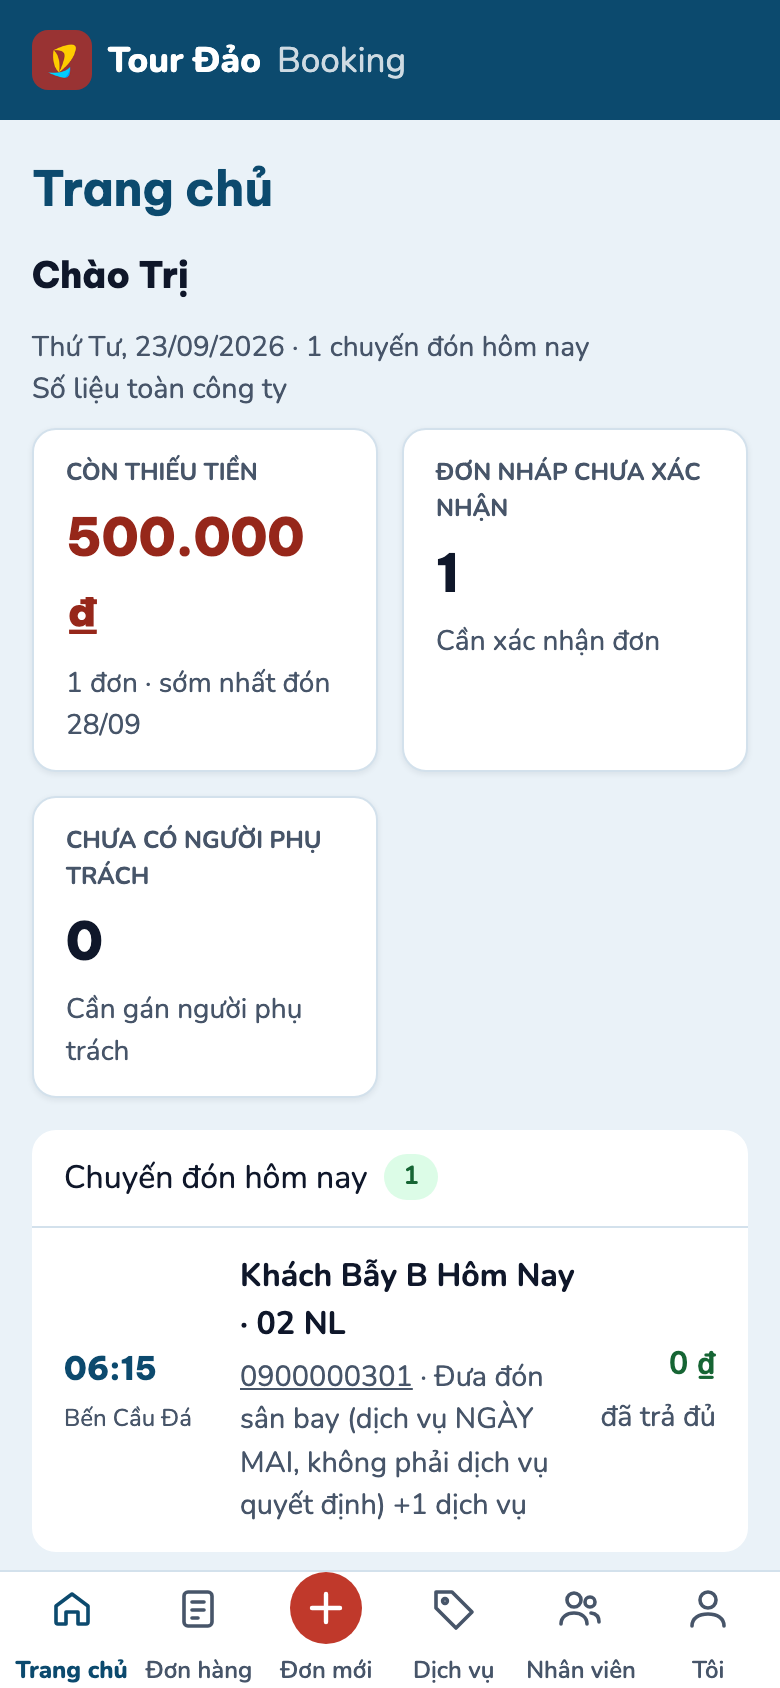
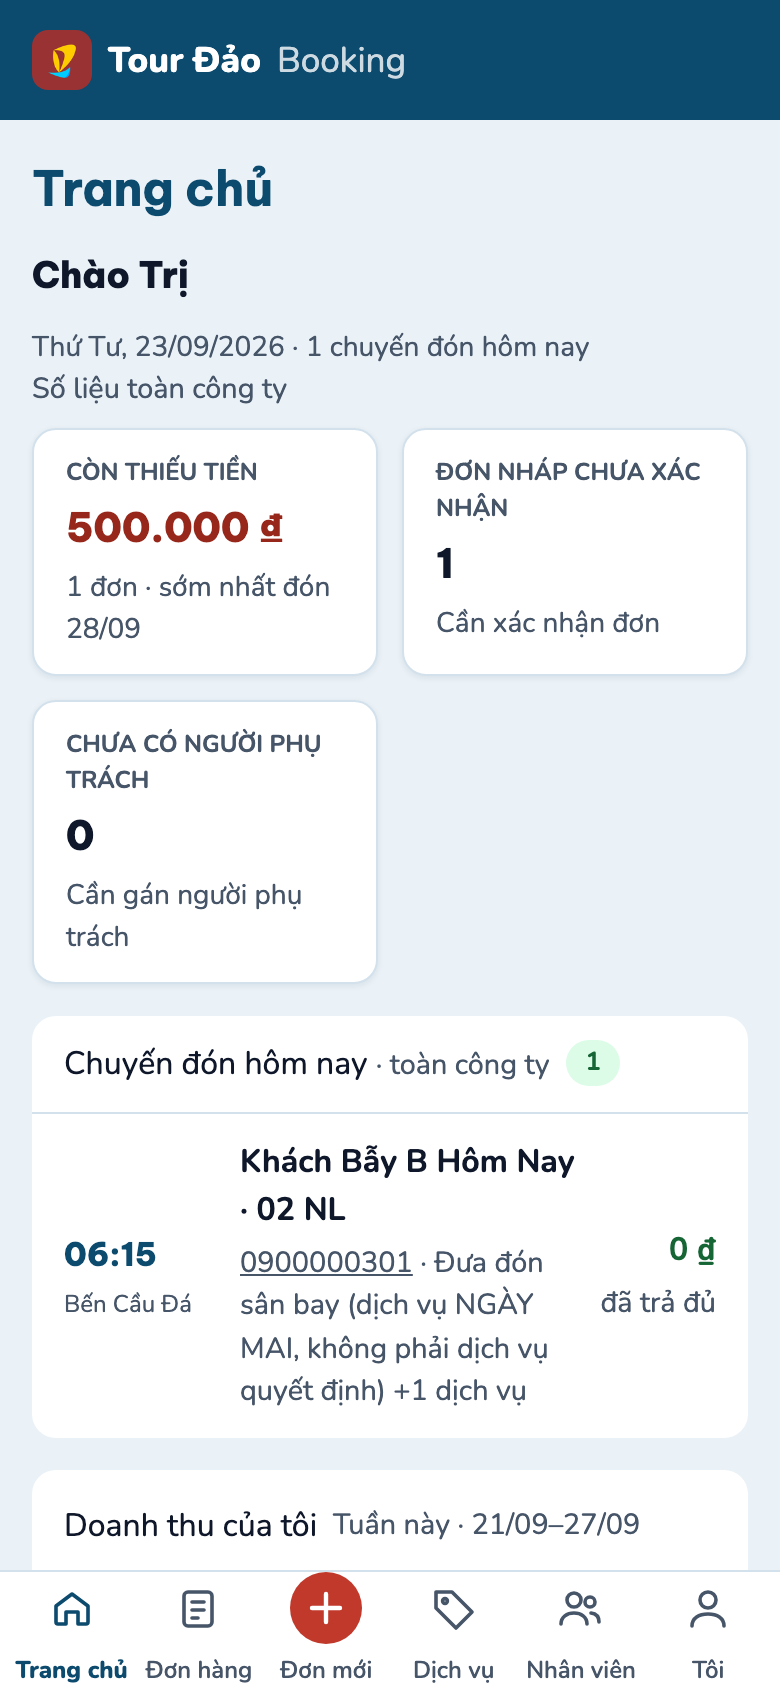
Sửa lượt kiểm gộp Trang chủ mới: I-1 khoá phá hoà dịch vụ quyết định, I-3 tràn ₫, I-6 nhãn phạm vi
I-1 (quan trọng nhất): SQLite xếp NULL trước trong ORDER BY mặc định — khi 2 dịch vụ cùng
là "ngày sớm nhất" của đơn mà một dịch vụ không nhập giờ đón (pickup_time IS NULL, trường
tuỳ chọn, rất hay gặp thật), dòng KHÔNG-CÓ-GIỜ thắng khoá phá hoà cũ (chỉ pickup_time), làm
trip mất cả giờ lẫn nơi đón, và dòng đó còn nổi lên đầu danh sách hiển thị. Thêm khoá phá
hoà (pickup_time IS NULL) trước pickup_time (cả subquery chọn dịch vụ quyết định lẫn ORDER
BY hiển thị), cộng khoá id cuối cùng cho tất định. TDD: 2 test đỏ trước (tái hiện đúng lỗi
người kiểm báo), xanh sau khi sửa SQL. insertService() trong dashboard.test.ts nay gán được
pickup_place (trước đây luôn NULL, assertion pickupPlace: null "pass hờ").

I-3: ô số liệu ("CÒN THIẾU TIỀN" …) làm ký hiệu ₫ rơi xuống dòng riêng ở lưới 2 cột khổ điện
thoại hẹp — thêm token --fs-stat-sm (20px) và override font-size trong @media (max-width:
639px). Thêm phép đo chiều cao thật của .dash-stat-value vào kịch bản Chrome (không xuống
dòng); ảnh bằng chứng ghi đè có chủ đích.

I-6: "Chuyến đón hôm nay" là số liệu TOÀN CÔNG TY (không lọc theo staff_id) nhưng đứng giữa
một khối "toàn công ty" và một khối "của tôi" — thêm nhãn phạm vi vào tiêu đề.

Minor: sửa selector CSS chết (.dash-today-list → #dash-today-list, home.html chỉ có id),
sửa hai chú thích lệch mã (dashboard.test.ts: "sort_order nhỏ nhất" → "dịch vụ quyết định";
web/shell.ts: "3 tab" → "4 tab" khi mất mạng).
[…]

diff --git a/src/modules/orders/dashboard.test.ts b/src/modules/orders/dashboard.test.ts
@@ -74,11 +74,12 @@ function insertDraftOrder(sqlite: DatabaseSync, o: { id: string; staffId: string
     .run(o.id, `TD-${o.id}`, o.staffId, m.subtotal, m.discount, m.total, m.depositAmount, m.remainingAmount, o.createdAt, o.createdAt);
 }
 
-/** Dịch vụ của một đơn còn nháp (chèn trước khi xác nhận). */
-function insertService(sqlite: DatabaseSync, s: { id: string; orderId: string; sortOrder?: number; departDate?: string | null; pickupTime?: string | null; name?: string }): void {
+/** Dịch vụ của một đơn còn nháp (chèn trước khi xác nhận). `pickupPlace` có tham số riêng — trước đây hàm này KHÔNG gán được cột này nên
+ * mọi ca test có `pickupPlace: null` "pass hờ" (không phân biệt được "đọc đúng dòng" với "luôn null", kiểm độc lập vòng gộp phát hiện). */
+function insertService(sqlite: DatabaseSync, s: { id: string; orderId: string; sortOrder?: number; departDate?: string | null; pickupTime?: string | null; pickupPlace?: string | null; name?: string }): void {
   sqlite
-    .prepare(`INSERT INTO order_service (id, order_id, sort_order, catalog_code, name, unit, pax_adult, depart_date, pickup_time) VALUES (?, ?, ?, NULL, ?, 'manual', 1, ?, ?)`)
-    .run(s.id, s.orderId, s.sortOrder ?? 0, s.name ?? "Dịch vụ", s.departDate ?? null, s.pickupTime ?? null);
+    .prepare(`INSERT INTO order_service (id, order_id, sort_order, catalog_code, name, unit, pax_adult, depart_date, pickup_time, pickup_place) VALUES (?, ?, ?, NULL, ?, 'manual', 1, ?, ?, ?)`)
+    .run(s.id, s.orderId, s.sortOrder ?? 0, s.name ?? "Dịch vụ", s.departDate ?? null, s.pickupTime ?? null, s.pickupPlace ?? null);
 }
 
 /** Chuyển đơn (đã có đủ dịch vụ hợp lệ — mọi dịch vụ có ngày + >=1 khách) sang xác nhận, đúng luồng trigger 0008/0017 cho phép. */
@@ -157,7 +158,7 @@ test("today: chỉ đơn confirmed có dịch vụ SỚM NHẤT (trong các dị
   );
   const o4 = data.today.find((o) => o.id === "o4")!;
   assert.deepEqual(o4.pax, { adult: 2, child: 0, senior: 0, infant: 0 }, "pax cộng dồn CẢ HAI dịch vụ của đơn");
-  assert.deepEqual(o4.trip, { departDate: TODAY, pickupTime: "06:00", pickupPlace: null }, "trip lấy theo dịch vụ sort_order nhỏ nhất (sv4a)");
+  assert.deepEqual(o4.trip, { departDate: TODAY, pickupTime: "06:00", pickupPlace: null }, "trip lấy theo dịch vụ QUYẾT ĐỊNH hôm nay (sv4a — ngày sớm nhất có ngày đón; ở đây trùng với sort_order nhỏ nhất, KHÔNG phải quy tắc chung, xem test 'trip lấy theo dịch vụ QUYẾT ĐỊNH…' bên dưới)");
 });
 
 test("today: đơn có điều chỉnh tiền → total/remainingAmount trong danh sách hôm nay là số HIỆN HÀNH, không phải cột gốc (bài học Đợt B)", async () => {
@@ -308,5 +309,54 @@ test("today: trip lấy theo dịch vụ QUYẾT ĐỊNH hôm nay (ngày sớm n
     o7.trip,
     { departDate: TODAY, pickupTime: "09:00", pickupPlace: null },
     "trip phải là của sv7b (dịch vụ quyết định hôm nay), KHÔNG phải sv7a (sort_order nhỏ nhất, ngày mai lúc 20:00)",
+  );
+});
+
+// ---- Kiểm độc lập (lượt gộp I-1): khoá phá hoà "dịch vụ nào quyết định hôm nay" khi 2 dịch vụ CÙNG ngày sớm nhất mà MỘT dịch vụ
+// không nhập giờ đón (pickup_time IS NULL — trường TUỲ CHỌN, trigger xác nhận đơn không đòi, rất hay gặp thật). SQLite xếp NULL TRƯỚC:
+// nếu khoá phá hoà chỉ là `pickup_time` thì dòng KHÔNG-CÓ-GIỜ thắng → trip mất cả giờ lẫn nơi đón. Đây là PROBE tái hiện đúng lỗi
+// người kiểm đã báo (trip = {departDate, pickupTime: null, pickupPlace: null} dù có dịch vụ 06:15 thật cùng ngày).
+test("today: 2 dịch vụ CÙNG ngày sớm nhất, một cái KHÔNG có giờ đón — dịch vụ CÓ giờ đón phải thắng khoá phá hoà (không phải NULL thắng)", async () => {
+  const sqlite = seed();
+  const db = fakeD1(sqlite);
+
+  insertDraftOrder(sqlite, { id: "o8", staffId: "s-a", createdAt: "2026-09-20T01:00:00.000Z" });
+  // sv8a: KHÔNG nhập giờ đón (tuỳ chọn, hợp lệ) — nếu là dòng thắng khoá phá hoà thì trip sẽ mất giờ/nơi đón.
+  insertService(sqlite, { id: "sv8a", orderId: "o8", sortOrder: 0, departDate: TODAY, pickupTime: null, pickupPlace: null });
+  // sv8b: CÓ giờ đón + nơi đón, CÙNG ngày hôm nay — phải là dịch vụ quyết định.
+  insertService(sqlite, { id: "sv8b", orderId: "o8", sortOrder: 1, departDate: TODAY, pickupTime: "06:15", pickupPlace: "Bến Cầu Đá" });
+  confirm(sqlite, "o8");
+
+  const data = await getDashboard(db, "s-a", TODAY, WEEK.from, WEEK.to);
+  assert.equal(data.today.length, 1, `o8 phải có trong today — ${JSON.stringify(data.today.map((o) => o.id))}`);
+  const o8 = data.today.find((o) => o.id === "o8")!;
+  assert.equal(o8.trip.pickupTime, "06:15", `trip.pickupTime PHẢI là 06:15 (sv8b, có giờ đón) — thấy ${JSON.stringify(o8.trip)}. Nếu null thì dịch vụ KHÔNG-CÓ-GIỜ đã thắng khoá phá hoà (bug I-1).`);
+  assert.equal(o8.trip.pickupPlace, "Bến Cầu Đá", `trip.pickupPlace PHẢI là "Bến Cầu Đá" (sv8b) — thấy ${JSON.stringify(o8.trip)}`);
+  assert.deepEqual(
+    data.today.map((o) => o.id),
+    ["o8"],
+  );
+});
+
+// Danh sách hiển thị (ORDER BY ngoài): dòng KHÔNG có giờ đón không được nổi lên đầu danh sách "Chuyến đón hôm nay" — phải xuống CUỐI.
+test("today: sắp xếp danh sách — đơn KHÔNG có giờ đón (trip.pickupTime null) phải đứng SAU đơn có giờ đón, không nổi lên đầu", async () => {
+  const sqlite = seed();
+  const db = fakeD1(sqlite);
+
+  // o9: có giờ đón 07:00.
+  insertDraftOrder(sqlite, { id: "o9", staffId: "s-a", createdAt: "2026-09-20T01:00:00.000Z" });
+  insertService(sqlite, { id: "sv9", orderId: "o9", departDate: TODAY, pickupTime: "07:00" });
+  confirm(sqlite, "o9");
+
+  // o10: KHÔNG có giờ đón (dịch vụ quyết định duy nhất của đơn không nhập giờ).
+  insertDraftOrder(sqlite, { id: "o10", staffId: "s-a", createdAt: "2026-09-20T01:00:00.000Z" });
+  insertService(sqlite, { id: "sv10", orderId: "o10", departDate: TODAY, pickupTime: null });
+  confirm(sqlite, "o10");
+
+  const data = await getDashboard(db, "s-a", TODAY, WEEK.from, WEEK.to);
+  assert.deepEqual(
+    data.today.map((o) => o.id),
+    ["o9", "o10"],
+    `o9 (có giờ đón) phải đứng TRƯỚC o10 (không có giờ đón) — dòng "—" không được nổi lên đầu danh sách. Thấy thứ tự ${JSON.stringify(data.today.map((o) => o.id))}`,
   );
 });

diff --git a/public/app.css b/public/app.css
@@ -86,6 +86,7 @@
   --h-turnstile: 65px;      /* chiều cao cố định của widget Cloudflare Turnstile (cỡ "flexible"/"normal"): khung giữ chỗ để widget dựng xong không đẩy nút Đăng nhập */
   --w-confirm: 640px;       /* bề rộng hộp thoại "Xác nhận đơn để gửi khách" ở màn hình rộng: ảnh xem trước (khổ 720) chỉ thu nhỏ nhẹ nên chữ còn đọc được */
   --fs-stat: 26px;          /* Trang chủ mới: cỡ chữ số liệu lớn (ô số liệu, doanh thu) */
+  --fs-stat-sm: 20px;       /* Trang chủ mới (kiểm gộp I-3): cỡ chữ số liệu ở khổ điện thoại hẹp (lưới 2 cột ≤639px) — 26px làm "₫" rơi xuống dòng riêng với số tiền lớn */
   --w-time-col: 76px;       /* Trang chủ mới: bề rộng cụm giờ đón + nơi đón (cùng dịch vụ quyết định) trong danh sách "Chuyến đón hôm nay" */
 }
 * { box-sizing: border-box; }
@@ -551,10 +552,11 @@ body.maint-open { overflow: hidden; }
 }
 @media (max-width: 639px) {
   .dash-stats { grid-template-columns: repeat(2, minmax(0, 1fr)); }
+  .dash-stat-value { font-size: var(--fs-stat-sm); } /* kiểm gộp I-3: lưới 2 cột ở khổ hẹp không đủ chỗ cho --fs-stat (26px) — "₫" rơi xuống dòng riêng với số tiền lớn */
 }
 .dash-today { padding: 0; } /* .card cho padding mặc định; đầu mục + từng dòng tự chia lề (khuôn .list-card) */
 .dash-today-head { display: flex; align-items: center; gap: var(--s2); padding: var(--s3) var(--s4); border-bottom: 1px solid var(--c-border); }
-.dash-today-list { display: flex; flex-direction: column; }
+#dash-today-list { display: flex; flex-direction: column; } /* kiểm gộp (minor): public/home.html không có class "dash-today-list" trên phần tử này (chỉ id) — selector cũ .dash-today-list chết */
 .dash-today-row { display: flex; align-items: center; gap: var(--s3); padding: var(--s3) var(--s4); color: inherit; text-decoration: none; border-bottom: 1px solid var(--c-border); }
 .dash-today-row:last-child { border-bottom: 0; }
 .dash-today-when { flex: none; width: var(--w-time-col); display: flex; flex-direction: column; gap: var(--s1); overflow-wrap: anywhere; } /* giờ + nơi đón: cùng cụm vì cùng đến từ dịch vụ quyết định, KHÔNG gộp với tên dịch vụ ở .dash-today-main; overflow-wrap phòng nơi đón dài không có khoảng trắng tràn cột */

diff --git a/src/modules/orders/repository.ts b/src/modules/orders/repository.ts
@@ -355,6 +355,11 @@ export async function getDashboard(db: D1Database, staffId: string, today: strin
   //    `os` trong câu này ĐÃ bị ép bằng đúng dòng subquery chọn ra (os.id = subquery) — tức chính là dịch vụ QUYẾT ĐỊNH "hôm nay".
   //    Lấy luôn 3 cột chuyến của DÒNG NÀY để override `trip` bên dưới — KHÔNG dùng `trip` do `toSummaryDtos`/`summarizeServices` điền
   //    (hàm đó lấy theo sort_order nhỏ nhất, có thể là MỘT dịch vụ KHÁC — bài học kiểm độc lập vòng 1, xem dashboard.test.ts).
+  // Khoá phá hoà (kiểm gộp I-1): SQLite xếp NULL TRƯỚC giá trị thật ở ORDER BY mặc định. `pickup_time` là trường TUỲ CHỌN (trigger xác
+  // nhận đơn không đòi) — khi hai dịch vụ CÙNG là "ngày sớm nhất" của đơn mà một dịch vụ không nhập giờ đón, khoá phá hoà PHẢI ưu tiên
+  // dòng CÓ giờ đón trước (`os2.pickup_time IS NULL` = 0 cho dòng có giờ, = 1 cho dòng NULL → ASC đẩy NULL xuống sau), rồi mới tới
+  // chính giờ đón, rồi `sort_order`, rồi `id` (khoá tất định cuối cùng khi mọi khoá trên bằng nhau). Same lý do cho ORDER BY ngoài
+  // (thứ tự hiển thị danh sách) — dòng không có giờ đón không được nổi lên đầu "Chuyến đón hôm nay".
   const { results: todayOrder } = await db
     .prepare(
       `SELECT o.id, os.depart_date, os.pickup_time, os.pickup_place FROM orders o
@@ -364,10 +369,10 @@ export async function getDashboard(db: D1Database, staffId: string, today: strin
          AND os.id = (
            SELECT id FROM order_service os2
            WHERE os2.order_id = o.id AND os2.depart_date IS NOT NULL
-           ORDER BY os2.depart_date, os2.pickup_time, os2.sort_order
+           ORDER BY os2.depart_date, (os2.pickup_time IS NULL), os2.pickup_time, os2.sort_order, os2.id
            LIMIT 1
          )
-       ORDER BY os.pickup_time, os.sort_order`,
+       ORDER BY (os.pickup_time IS NULL), os.pickup_time, os.sort_order, os.id`,
     )
     .bind(today)
     .all<{ id: string; depart_date: string; pickup_time: string | null; pickup_place: string | null }>();

diff --git a/public/home.html b/public/home.html
@@ -15,7 +15,7 @@
   <div id="loading" class="skeleton-list" aria-hidden="true"><div class="skeleton-row"></div><div class="skeleton-row"></div></div>
   <div id="dash-layout" class="dash-layout" hidden>
     <section id="dash-today" class="card dash-today">
-      <div class="dash-today-head"><span>Chuyến đón hôm nay</span><span id="dash-today-count" class="badge badge-confirmed" hidden></span></div>
+      <div class="dash-today-head"><span>Chuyến đón hôm nay <span class="muted">· toàn công ty</span></span><span id="dash-today-count" class="badge badge-confirmed" hidden></span></div>
       <div id="dash-today-list"></div>
       <p id="dash-today-empty" class="empty" hidden>Không có chuyến nào hôm nay.</p>
     </section>

diff --git a/web/shell.ts b/web/shell.ts
@@ -112,7 +112,7 @@ export async function initShell(): Promise<Staff> {
     // Mất mạng (khung vẫn mở được từ cache): báo rõ thay vì để trang trống, rồi giữ lời gọi treo như goLogin() ở api.ts.
     const el = document.getElementById("error");
     if (el) showError(el, "Không có kết nối mạng. Kiểm tra Wi-Fi hoặc 4G rồi mở lại app.");
-    addTabBar(false); // không biết vai khi mất mạng: hiện 3 tab cơ bản để còn điều hướng (QA2 Q2-04)
+    addTabBar(false); // không biết vai khi mất mạng: hiện 4 tab cơ bản để còn điều hướng (QA2 Q2-04)
     return new Promise<never>(() => undefined);
   }
   const { staff } = me;
